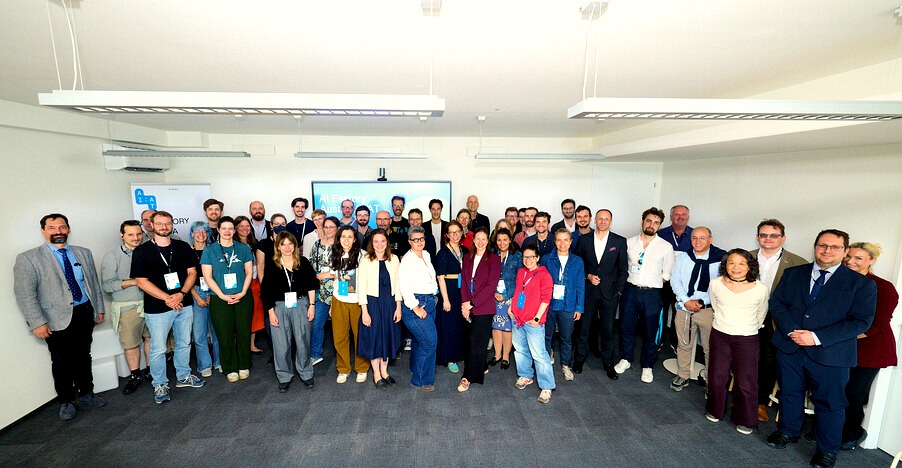
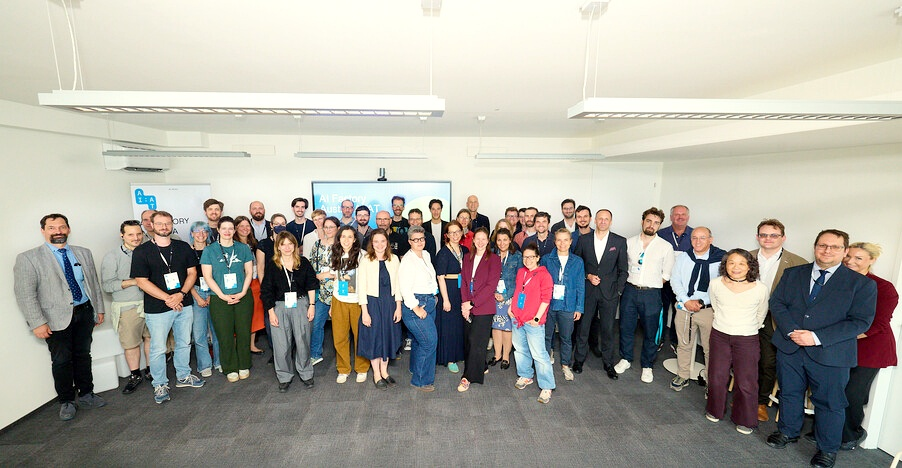
Optimize news image exposure/colors and implement custom photocredit hover tooltip

diff --git a/index.html b/index.html
@@ -84,7 +84,10 @@
                     </div>
                 </div>
                 <div class="card reveal" style="padding: 0; border-bottom: 4px solid var(--terracotta); display: flex; flex-direction: column;">
-                    <img src="assets/news_aiat_oeaw.jpg" alt="ÖAW delegation at the AI:AT Coworking Hub (Photo: APA-Fotoservice / AI:AT - modified using Gemini 3.5 Flash)" title="Fotocredit: APA-Fotoservice / AI:AT" style="width: 100%; aspect-ratio: 16/9; object-fit: cover; border-bottom: 1px solid rgba(255, 255, 255, 0.05);">
+                    <div style="position: relative; overflow: hidden; display: block; line-height: 0;">
+                        <img src="assets/news_aiat_oeaw.jpg" alt="ÖAW delegation at the AI:AT Coworking Hub (Photo: APA-Fotoservice / AI:AT - modified using Gemini 3.5 Flash)" style="width: 100%; aspect-ratio: 16/9; object-fit: cover; border-bottom: 1px solid rgba(255, 255, 255, 0.05); display: block;">
+                        <div class="photocredit-tooltip">Fotocredit: APA-Fotoservice / AI:AT</div>
+                    </div>
                     <div style="padding: 2.5rem; flex: 1;">
                         <p style="color: var(--terracotta); font-size: 0.8rem; font-weight: 700; text-transform: uppercase; letter-spacing: 0.1em; margin-bottom: 0.5rem;">15 June 2026</p>
                         <h3>ÖAW Visits AI:AT Hub</h3>

diff --git a/style.css b/style.css
@@ -1032,3 +1032,31 @@ footer {
     width: 16px;
     height: 16px;
 }
+
+/* Custom Photocredit Tooltip/Overlay */
+.photocredit-tooltip {
+    position: absolute;
+    bottom: 12px;
+    right: 12px;
+    background: rgba(10, 10, 10, 0.85);
+    color: var(--text-main);
+    font-size: 0.7rem;
+    font-weight: 500;
+    padding: 6px 10px;
+    border-radius: 6px;
+    opacity: 0;
+    visibility: hidden;
+    transition: var(--transition-smooth);
+    pointer-events: none;
+    font-family: 'Inter', sans-serif;
+    letter-spacing: 0.05em;
+    border: 1px solid rgba(255, 255, 255, 0.1);
+    backdrop-filter: blur(4px);
+    -webkit-backdrop-filter: blur(4px);
+    z-index: 10;
+}
+
+.card:hover .photocredit-tooltip {
+    opacity: 1;
+    visibility: visible;
+}
